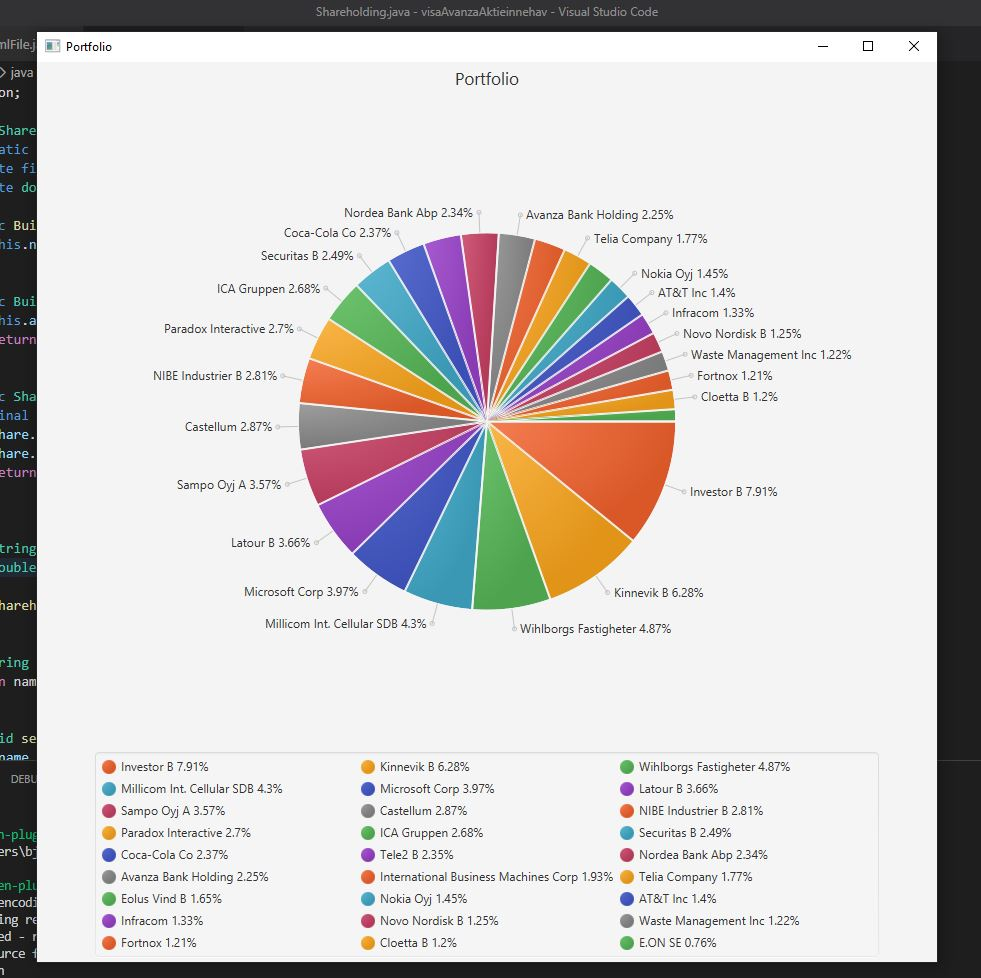
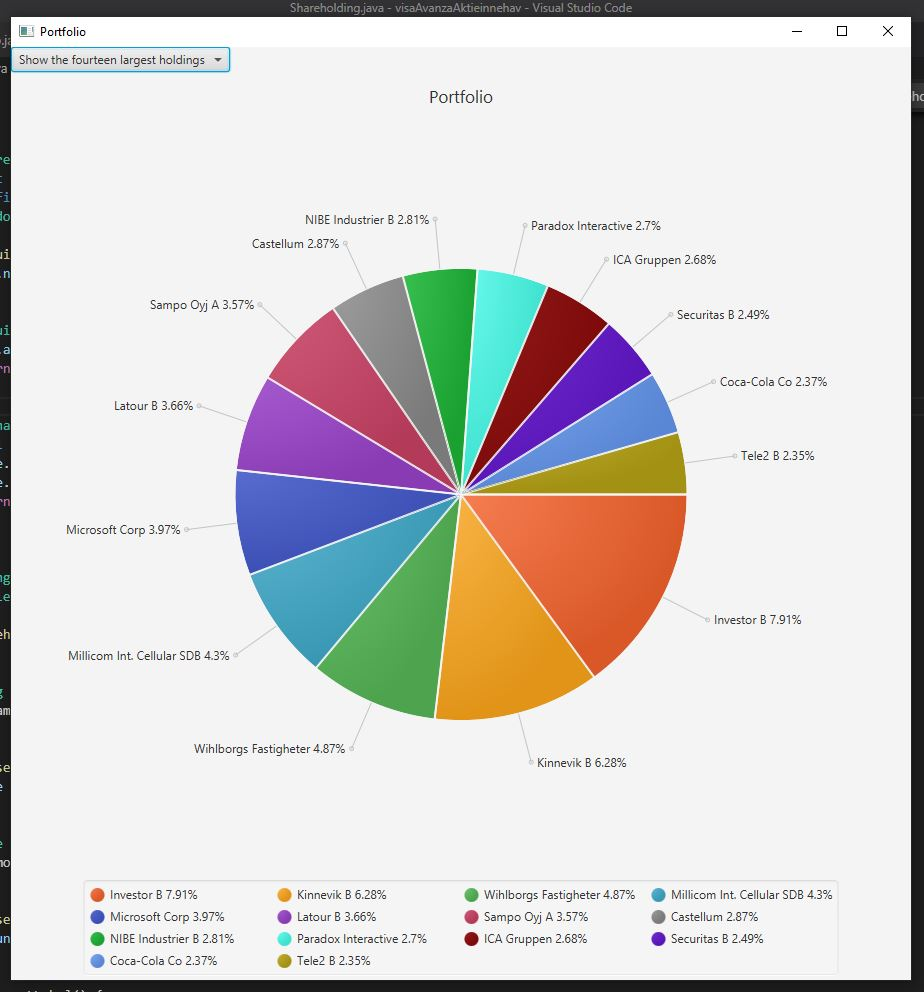
add options to filter the number of items to show in the chart

diff --git a/aktieinnehav/src/main/resources/styles.css b/aktieinnehav/src/main/resources/styles.css
@@ -1,0 +1,7 @@
+/* This will let you define colors of pie chart slices. But it should probably be randomized since the amount is uncertain */
+.data8.chart-pie { -fx-pie-color: rgb(30, 179, 55); }
+.data9.chart-pie { -fx-pie-color: rgb(70, 250, 232); }
+.data10.chart-pie { -fx-pie-color: rgb(133, 11, 11); }
+.data11.chart-pie { -fx-pie-color: rgb(102, 24, 204); }
+.data12.chart-pie { -fx-pie-color: rgb(100, 149, 237); }
+.data13.chart-pie { -fx-pie-color: rgb(180, 164, 21); }

diff --git a/aktieinnehav/src/main/java/hansson/App.java b/aktieinnehav/src/main/java/hansson/App.java
@@ -3,12 +3,15 @@ package hansson;
 import java.util.List;
 
 import javafx.application.Application;
+import javafx.beans.value.ChangeListener;
+import javafx.beans.value.ObservableValue;
 import javafx.collections.FXCollections;
 import javafx.collections.ObservableList;
 import javafx.geometry.Insets;
 import javafx.scene.Scene;
 import javafx.stage.Stage;
 import javafx.scene.chart.*;
+import javafx.scene.control.ChoiceBox;
 import javafx.scene.layout.Background;
 import javafx.scene.layout.BackgroundFill;
 import javafx.scene.layout.CornerRadii;
@@ -18,41 +21,73 @@ import javafx.scene.Group;
 
 public class App extends Application {
     private static final String TITLE = "Portfolio";
+    private static final String OPTION_LARGE = "Show the fourteen largest holdings";
+    private static final String OPTION_ALL = "Show all holdings";
     private static final int DEFAULT_SIZE = 900;
+    private static final int MAX_NR = 14;
+    private List<Shareholding> shareholdings;
 
     public static void main(String[] args) {
         System.out.println("Starts the application");
         launch(args);
     }
 
+    public App() {
+        final String filePath = System.getenv("BANK_HTML_FILE");
+        System.out.println("Parsing the file: " + filePath);
+        HtmlFile htmlFile = new HtmlFile(filePath);
+        this.shareholdings = htmlFile.getShareholdings();
+    }
+
     @Override
     public void start(Stage stage) {
         Scene scene = new Scene(new Group());
         stage.setTitle(TITLE);
-        // scene.setFill(Paint.valueOf("#000000"));
-        // stage.setMaximized(true);
+        scene.getStylesheets().add("styles.css");
 
-        final String filePath = System.getenv("BANK_HTML_FILE");
-        System.out.println("Parsing the file: " + filePath);
-        HtmlFile htmlFile = new HtmlFile(filePath);
-        List<Shareholding> shareholdings = htmlFile.getShareholdings();
+        // Have several lists to change between depending on options
+        ObservableList<PieChart.Data> chartDataAll = FXCollections.observableArrayList();
+        ObservableList<PieChart.Data> chartDataLargest = FXCollections.observableArrayList();
 
-        ObservableList<PieChart.Data> pieChartData = FXCollections.observableArrayList();
-        for (Shareholding share : shareholdings) {
-            pieChartData.add(new PieChart.Data(share.getLabel(), share.getAmount()));
+        for (Shareholding share : this.shareholdings) {
+            chartDataAll.add(new PieChart.Data(share.getLabel(), share.getAmount()));
+        }
+        for (int i = 0; i < MAX_NR; i++) {
+            Shareholding share = this.shareholdings.get(i); // They should already be sorted by size
+            chartDataLargest.add(new PieChart.Data(share.getLabel(), share.getAmount()));
         }
 
-        final PieChart chart = new PieChart(pieChartData);
+        final PieChart chart = new PieChart(chartDataLargest);
         chart.setTitle(TITLE);
         chart.setPrefSize(DEFAULT_SIZE, DEFAULT_SIZE);
+        chart.setLabelLineLength(50);
+
+        final ChoiceBox<String> selectBox = new ChoiceBox<>();
+        selectBox.setItems(FXCollections.observableArrayList(OPTION_LARGE, OPTION_ALL));
+        selectBox.setValue(OPTION_LARGE);
+        selectBox.getSelectionModel().selectedIndexProperty().addListener(new ChangeListener<Number>() {
+            @Override
+            public void changed(ObservableValue<? extends Number> observableValue, Number number, Number number2) {
+                String selectedOption = selectBox.getItems().get((Integer) number2);
+                if (selectedOption.equals(OPTION_ALL)) {
+                    chart.setLabelsVisible(false); // Unable to display labels if there are too many
+                    chart.setData(chartDataAll);
+                } else {
+                    chart.setData(chartDataLargest);
+                    chart.setLabelsVisible(true);
+                }
+                // TODO Add option for horizontal bar chart
+            }
+        });
 
         Background bg = new Background(new BackgroundFill(Color.web("#F4F4F4"), CornerRadii.EMPTY, Insets.EMPTY));
-        VBox box = new VBox(8); // spacing = 8
-        box.setFillWidth(true);
-        box.setBackground(bg);
-        box.getChildren().add(chart);
+        VBox vBox = new VBox(8); // spacing = 8
+        vBox.setFillWidth(true);
+        vBox.setBackground(bg);
+        vBox.getChildren().add(selectBox);
+        vBox.getChildren().add(chart);
 
-        ((Group) scene.getRoot()).getChildren().add(box);
+        ((Group) scene.getRoot()).getChildren().add(vBox);
         stage.setScene(scene);
         stage.show();
     }

diff --git a/README.md b/README.md
@@ -1,7 +1,7 @@
 # visaAvanzaAktieinnehav
 Läser in en nerladdad HTML-fil från en nätbank och visar alla aktieinnehaven i ett cirkeldiagram.
 
-User story: Som användare vill jag kunna se alla mina innehav (från alla mina konton) samtidigt i ett enda diagram, så att jag får en överblick av fördelningen.
+User story: Som användare vill jag kunna se alla mina innehav (från alla mina konton) i diagram, så att jag får en överblick av fördelningen.
 
 ![Screenshot](screenshot.jpg?raw=true "Screenshot")
 
